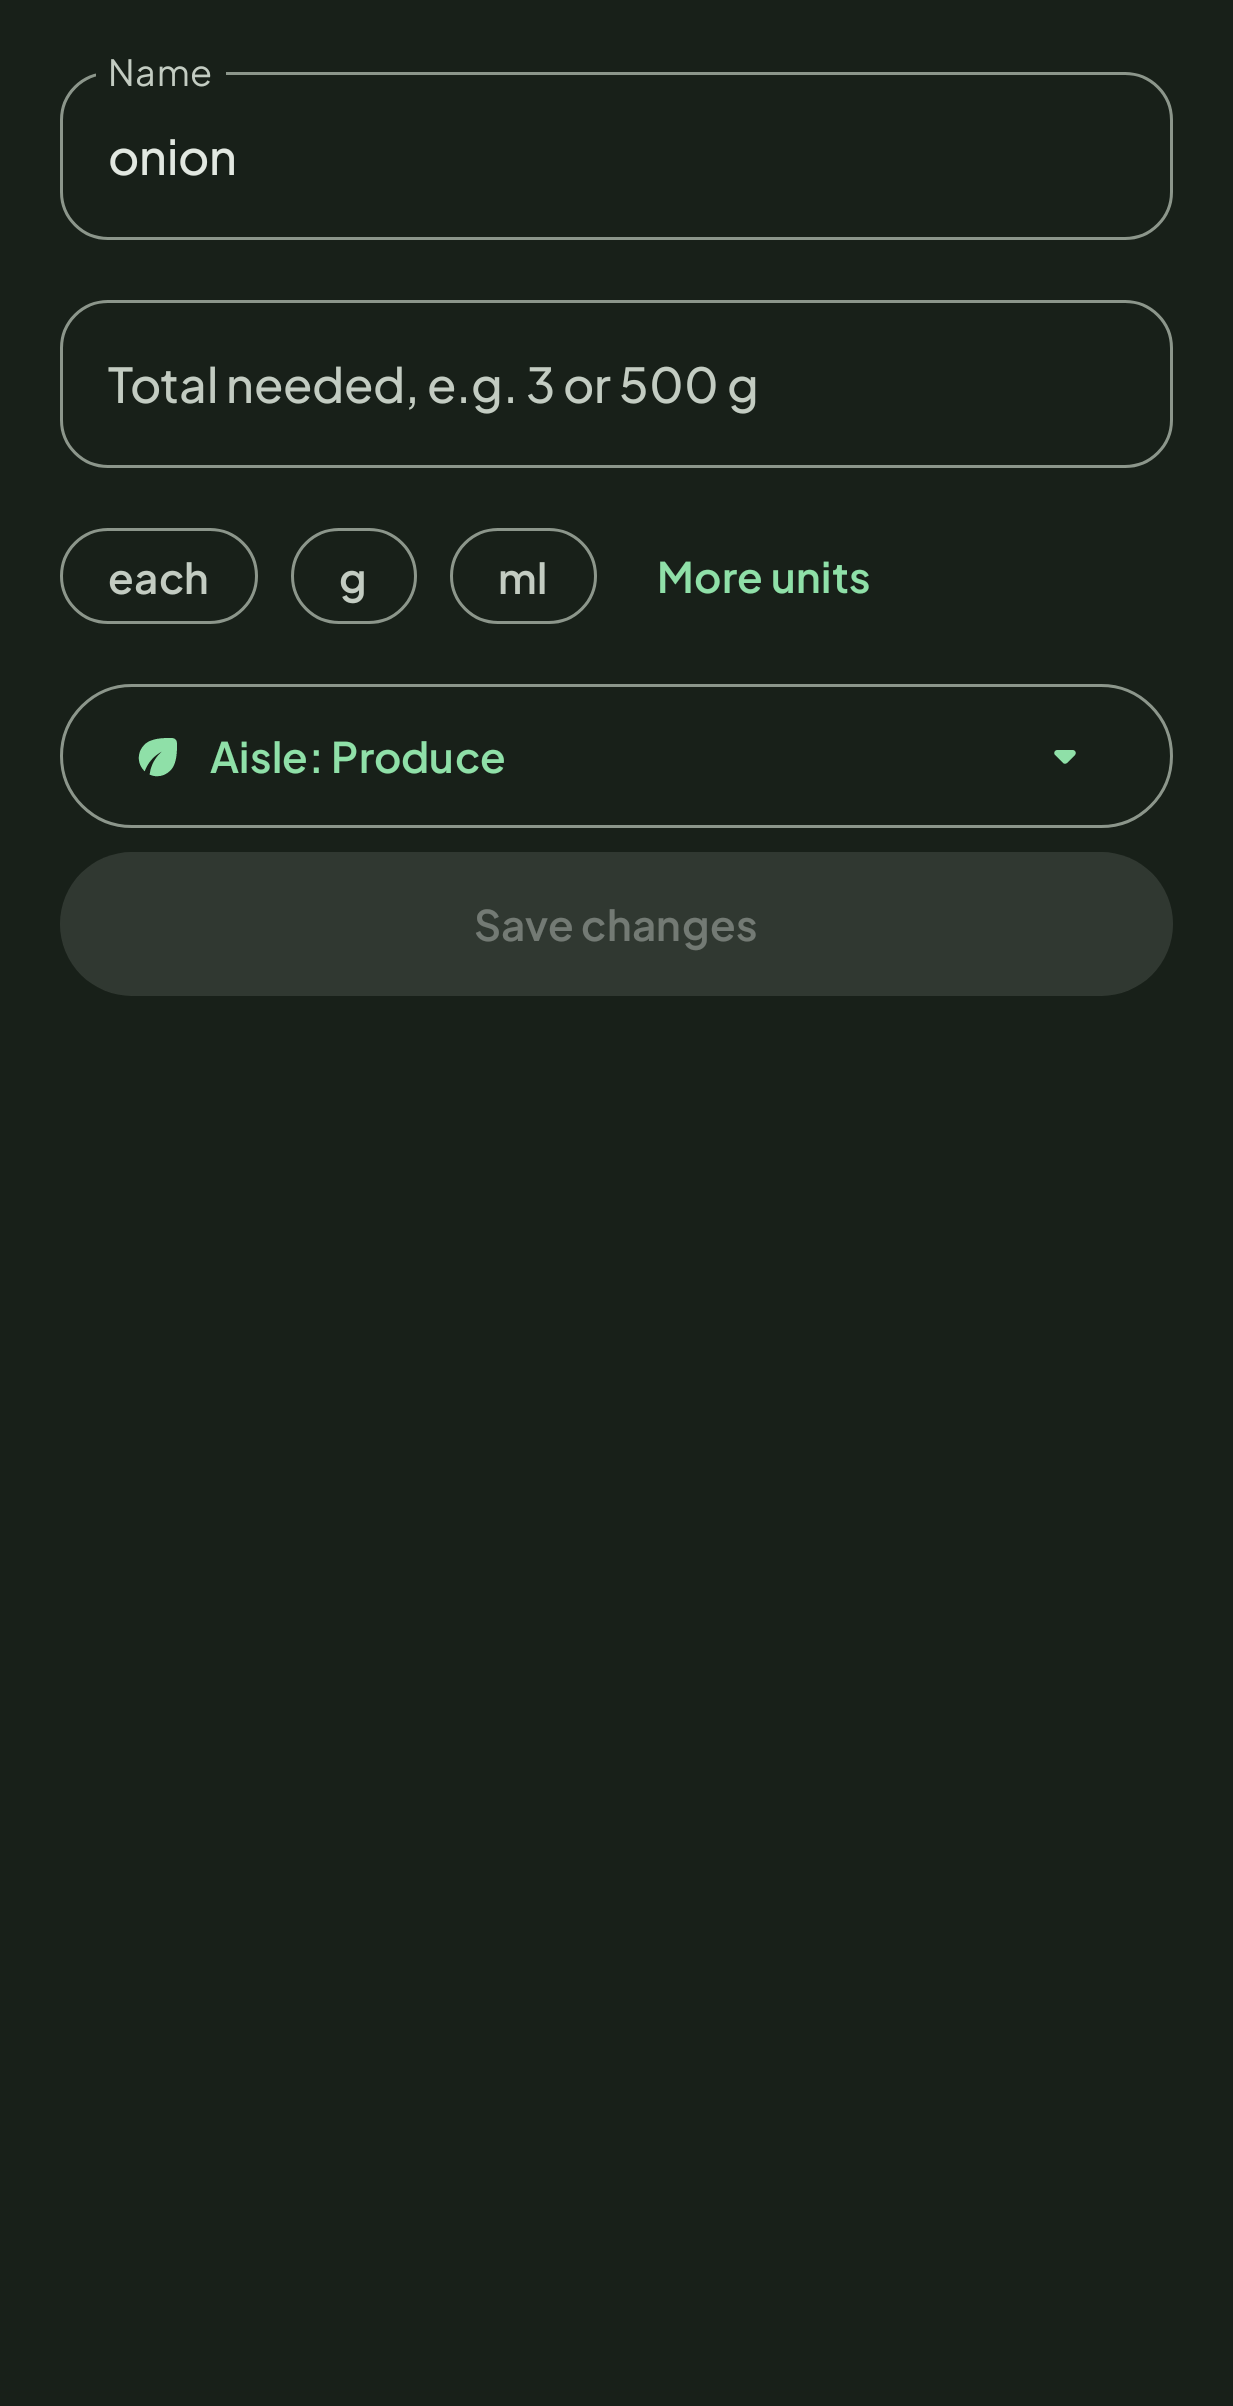
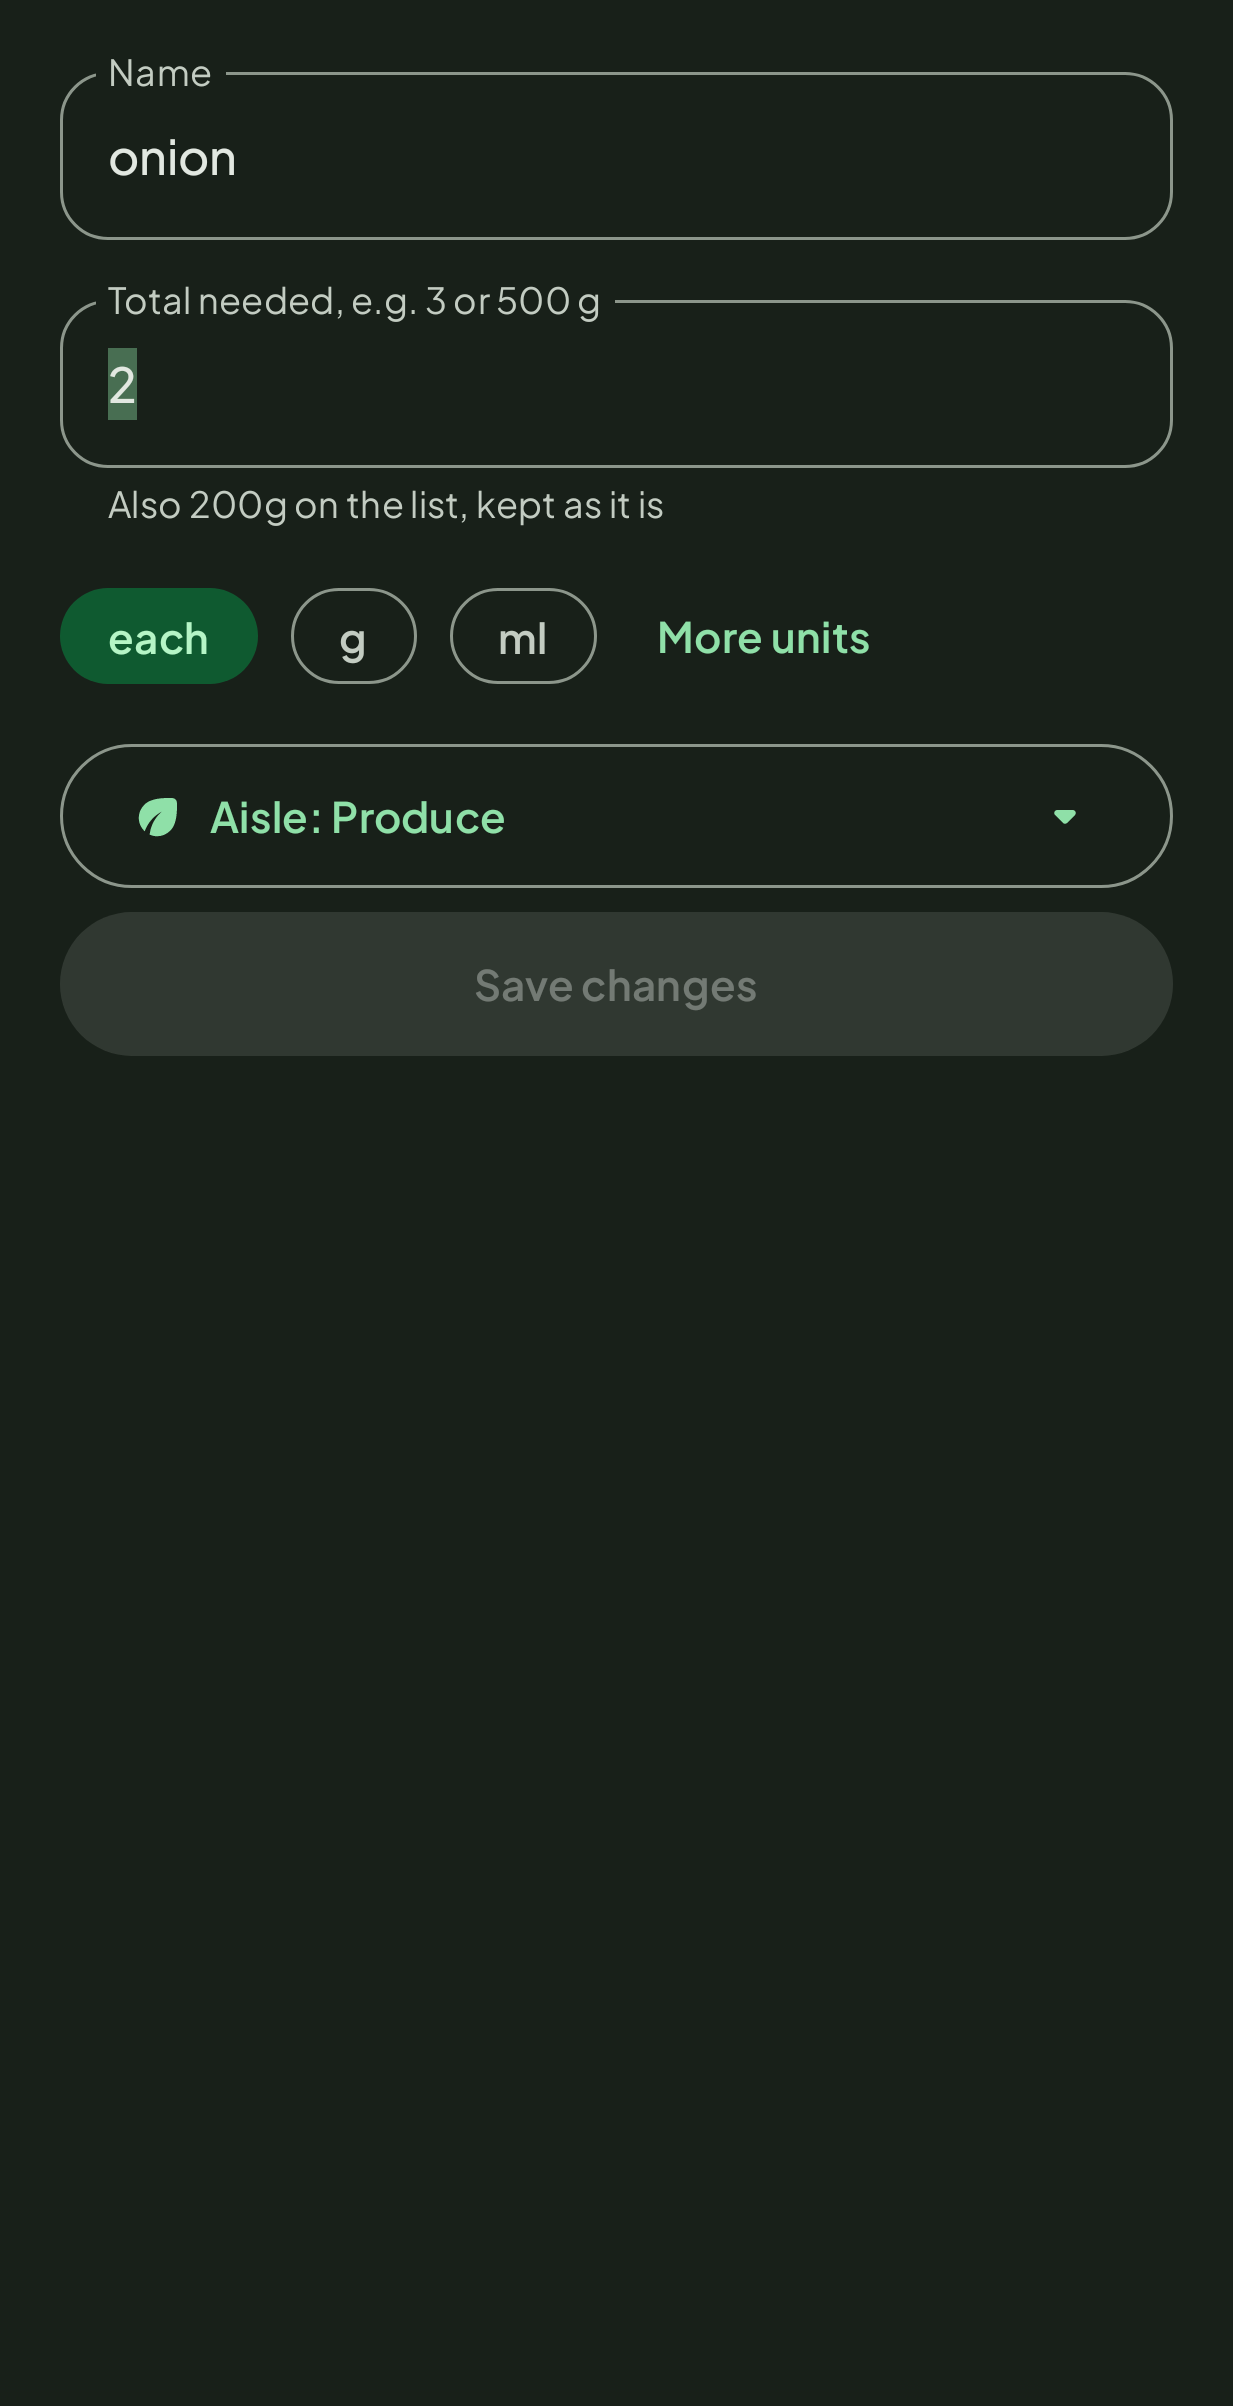
[AD.8] The amount form opens filled
The app was right and the screenshot's fixture was wrong: it lacked the
amount the app fills in. Fixture fixed; a test renders the form from the
sheet the view model builds and fails if the field opens empty.

Claude-Session: https://claude.ai/code/session_01XHyUGxiCMSHv96zvVnb1yh

diff --git a/android/app/src/test/java/com/robert4lyf/hypershop/ui/list/ItemSheetTest.kt b/android/app/src/test/java/com/robert4lyf/hypershop/ui/list/ItemSheetTest.kt
@@ -19,11 +19,13 @@ import androidx.compose.ui.test.performImeAction
 import androidx.compose.ui.test.performScrollTo
 import androidx.compose.ui.test.performTextInput
 import androidx.compose.ui.test.performTextReplacement
+import androidx.lifecycle.viewModelScope
 import androidx.test.ext.junit.runners.AndroidJUnit4
 import com.github.takahirom.roborazzi.captureRoboImage
 import com.robert4lyf.hypershop.core.model.AisleCode
 import com.robert4lyf.hypershop.testutil.Shots
 import com.robert4lyf.hypershop.ui.theme.HyperShopTheme
+import kotlinx.coroutines.cancel
 import org.junit.Assert.assertEquals
 import org.junit.Rule
 import org.junit.Test
@@ -41,6 +43,9 @@ private val SHEET =
         AisleCode.PRODUCE,
         swaps = listOf("shallot", "red onion"),
         canAlways = true,
+        // Step AD.8: as the app builds it (ListViewModel.openItem): the amount bought by, the other in words.
+        amount = "2",
+        amountRest = "200g",
     )
 
 @RunWith(AndroidJUnit4::class)
@@ -296,6 +301,35 @@ class ItemSheetTest {
         compose.onNodeWithTag("edit-qty").performTextReplacement("500 g")
         compose.onNodeWithTag("save-item").performClick()
         assertEquals(listOf("save ${ItemChanges(amount = "")}", "save ${ItemChanges(amount = "500 g")}"), events)
+    }
+
+    /**
+     * Step AD.8: the amount form opens filled, from the sheet the app itself builds: "2 onions" and "200 g onions" open
+     * on the 2 they are bought by, and say the 200 g in words. Fails if the field opens empty for an item with an amount.
+     */
+    @Test
+    fun theAmountFieldOpensFilledForAnItemWithAnAmount() {
+        val c = com.robert4lyf.hypershop.testutil.TestContainer.create()
+        c.add("2 onions", "200g onions")
+        val vm = ListViewModel(c)
+        try {
+            val ui = com.robert4lyf.hypershop.testutil.await(vm.ui) { it.loaded && it.aisles.isNotEmpty() }
+            vm.openItem(ui.aisles.flatMap { it.second }.first { it.name == "onion" }.id)
+            val sheet = com.robert4lyf.hypershop.testutil.await(vm.sheet) { it != null }!!
+            compose.setContent {
+                HyperShopTheme(
+                    dynamicColor = false,
+                ) { ItemSheetContent(sheet, ItemSheetActions(onSave = { true }), initiallyEditing = true) }
+            }
+            val field =
+                compose.onNodeWithTag(
+                    "edit-qty",
+                ).fetchSemanticsNode().config[androidx.compose.ui.semantics.SemanticsProperties.EditableText]
+            assertEquals("2", field.text)
+            compose.onNodeWithText("Also 200g on the list, kept as it is").assertExists()
+        } finally {
+            vm.viewModelScope.cancel()
+        }
     }
 
     @Test

diff --git a/PROGRESS.md b/PROGRESS.md
@@ -671,7 +671,12 @@ loop. No tabs, modes, settings or help text; no schema, protocol, golden-data or
   the subtitle; the subtitle held "1 set aside" and the watch's word. That word is now only "Watch not connected"
   (the watch app installed but out of reach); "Watch updating…" and "Watch synced" are no longer shown there.
   Settings › Watch keeps the full status. Test: `ListScreenTest.theWatchIsMentionedOnlyWhenItNeedsAttention`.
-- [ ] AD.8 The amount form opens filled.
+- [x] AD.8 The amount form opens filled. Found: the app is right, the screenshot was wrong. `ListViewModel.openItem`
+  builds the sheet with `amount = "2"` and `amountRest = "200g"` for "2 onions" + "200 g onions" (Step AC), so Change
+  amount opens on "2" and says "Also 200g on the list, kept as it is". `ItemSheetTest`'s fixture predates that and
+  left both out, so `item-sheet-light.png` showed an empty field. The fixture now carries them (re-recorded), and
+  `ItemSheetTest.theAmountFieldOpensFilledForAnItemWithAnAmount` renders the form from the sheet the view model itself
+  builds and fails if the field opens empty.
 - [ ] AD.9 A link in Add item starts an import.
 - [ ] AD.10 Swipe to remove is obvious and safe.
 - [ ] AD.11 After a shop, the next step.
